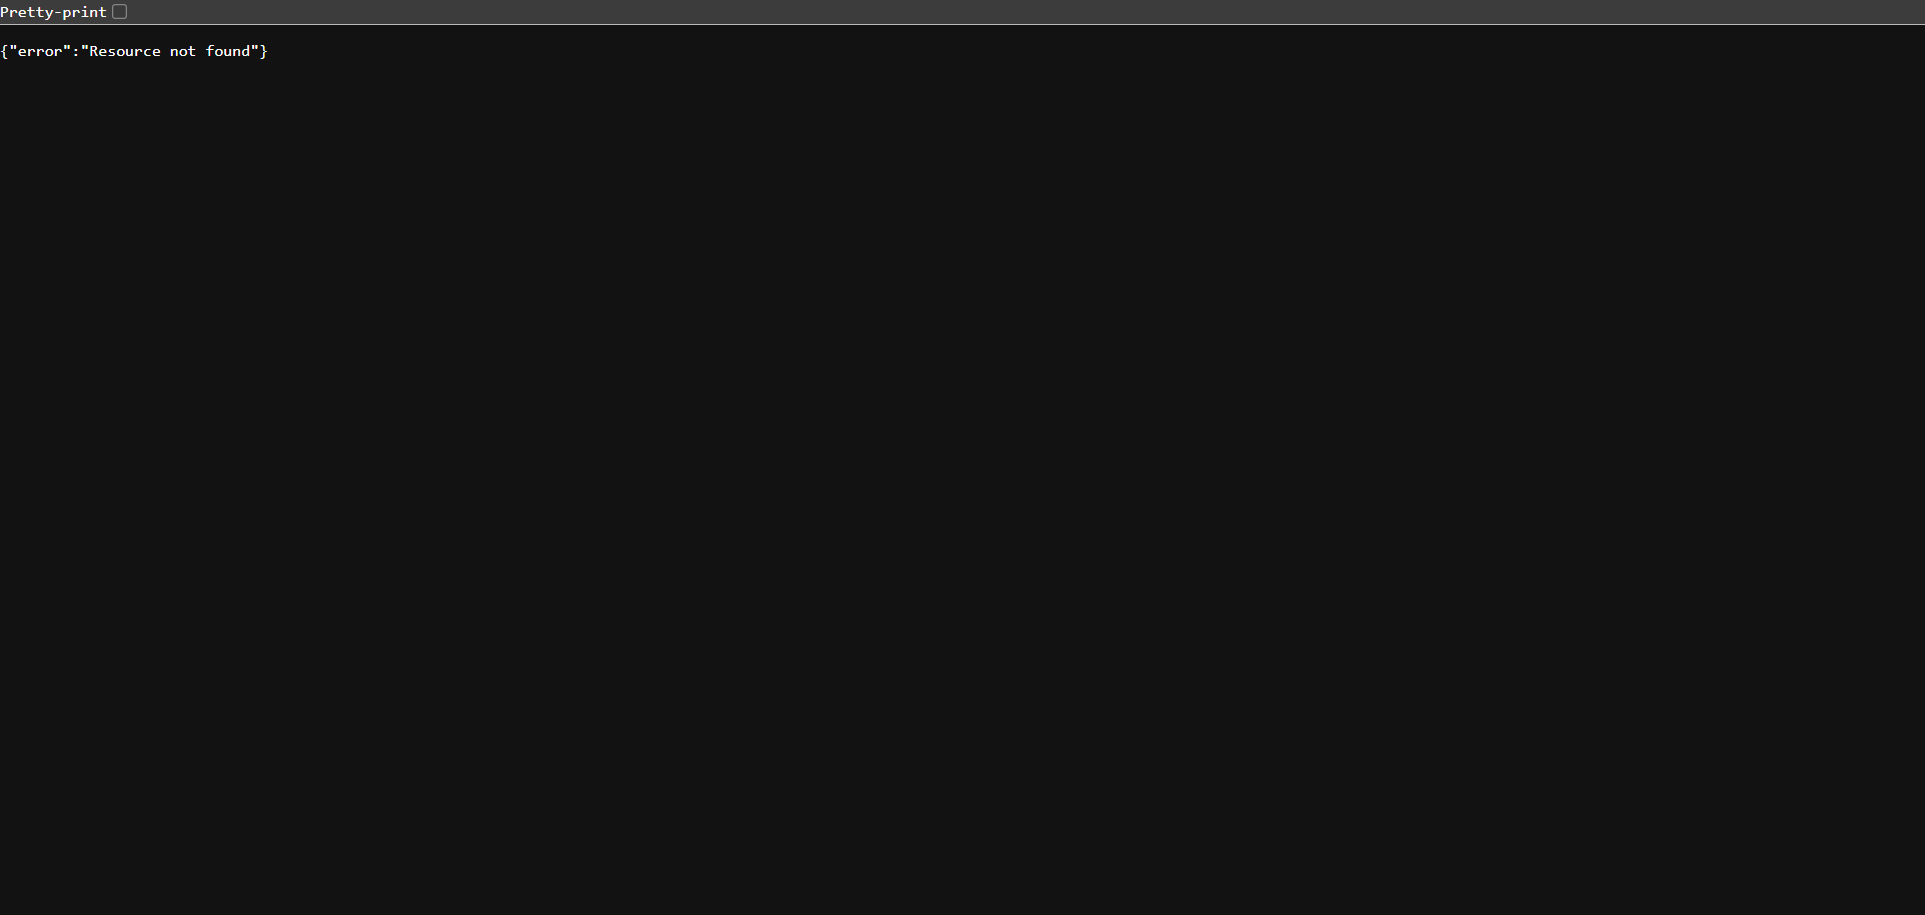
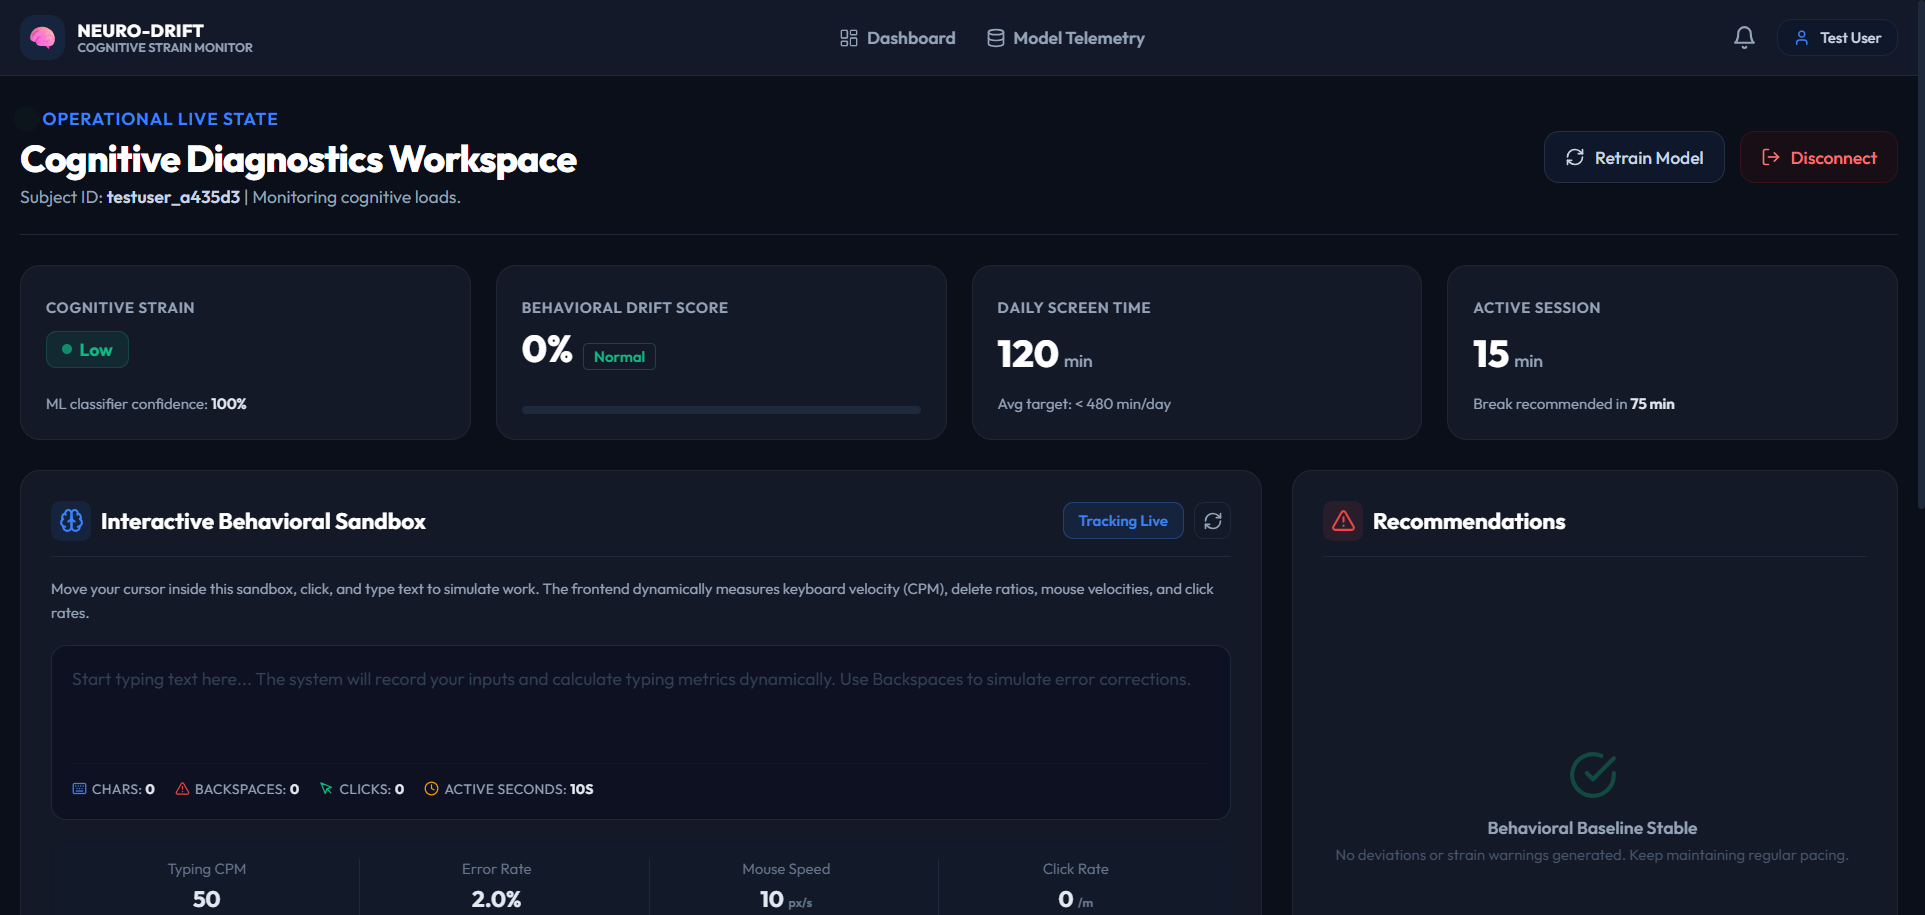
Fix e2e prediction test and ci continue on error

diff --git a/tests/test_prediction.py b/tests/test_prediction.py
@@ -1,16 +1,19 @@
 from selenium.webdriver.support.ui import WebDriverWait
 from selenium.webdriver.support import expected_conditions as EC
+from selenium.webdriver.common.by import By
 import time
 
 def test_transmit_metrics_success(browser, login_helper):
     """Click Transmit Metrics button and verify successful UI update."""
     login_helper()
     
-    transmit_btn = browser.find_element("xpath", "//button[contains(., 'Transmit Metrics')]")
+    transmit_btn = browser.find_element(By.XPATH, "//button[contains(., 'Transmit Metrics')]")
     browser.execute_script("arguments[0].click();", transmit_btn)
     
-    time.sleep(3)
-    success_btn = browser.find_element("xpath", "//button[contains(., 'Ingested Successfully')]")
+    WebDriverWait(browser, 10).until(
+        EC.presence_of_element_located((By.XPATH, "//button[contains(., 'Ingested Successfully')]"))
+    )
+    success_btn = browser.find_element(By.XPATH, "//button[contains(., 'Ingested Successfully')]")
     assert success_btn.is_displayed()
 
 def test_cognitive_strain_prediction(browser, login_helper):
@@ -18,17 +21,18 @@ def test_cognitive_strain_prediction(browser, login_helper):
     login_helper()
     
     # Toggle fatigue
-    label = browser.find_element("xpath", "//span[contains(text(), 'Force Cognitive Fatigue Simulation')]")
+    label = browser.find_element(By.XPATH, "//span[contains(text(), 'Force Cognitive Fatigue Simulation')]")
     browser.execute_script("arguments[0].click();", label)
     
     # Transmit
-    transmit_btn = browser.find_element("xpath", "//button[contains(., 'Transmit Metrics')]")
+    transmit_btn = browser.find_element(By.XPATH, "//button[contains(., 'Transmit Metrics')]")
     browser.execute_script("arguments[0].click();", transmit_btn)
     
-    time.sleep(3) # Wait for backend response and state update
-    
+    WebDriverWait(browser, 10).until(
+        EC.presence_of_element_located((By.XPATH, "//span[contains(text(), 'High')]"))
+    )
     # Check strain is high
-    strain_badge = browser.find_element("xpath", "//span[contains(text(), 'High')]")
+    strain_badge = browser.find_element(By.XPATH, "//span[contains(text(), 'High')]")
     assert strain_badge.is_displayed()
 
 def test_behavioral_drift_score(browser, login_helper):
@@ -36,18 +40,20 @@ def test_behavioral_drift_score(browser, login_helper):
     login_helper()
     
     # Read initial drift score
-    drift_score_elem = browser.find_element("xpath", "//span[contains(text(), '%')]")
+    drift_score_elem = browser.find_element(By.XPATH, "//span[contains(text(), '%')]")
     
     # Toggle fatigue
-    label = browser.find_element("xpath", "//span[contains(text(), 'Force Cognitive Fatigue Simulation')]")
+    label = browser.find_element(By.XPATH, "//span[contains(text(), 'Force Cognitive Fatigue Simulation')]")
     browser.execute_script("arguments[0].click();", label)
     
     # Transmit
-    transmit_btn = browser.find_element("xpath", "//button[contains(., 'Transmit Metrics')]")
+    transmit_btn = browser.find_element(By.XPATH, "//button[contains(., 'Transmit Metrics')]")
     browser.execute_script("arguments[0].click();", transmit_btn)
     
-    time.sleep(3)
+    WebDriverWait(browser, 10).until(
+        EC.presence_of_element_located((By.XPATH, "//span[contains(text(), 'Critical')]"))
+    )
     
     # Drift score should be very high (Critical)
-    critical_badge = browser.find_element("xpath", "//span[contains(text(), 'Critical')]")
+    critical_badge = browser.find_element(By.XPATH, "//span[contains(text(), 'Critical')]")
     assert critical_badge.is_displayed()

diff --git a/fix_clicks.py b/fix_clicks.py
@@ -1,0 +1,17 @@
+import os
+import re
+
+for root, _, files in os.walk('tests'):
+    for file in files:
+        if not file.endswith('.py'): continue
+        path = os.path.join(root, file)
+        with open(path, 'r') as f:
+            content = f.read()
+        
+        content = re.sub(r'(browser\.find_element\([^)]+\))\.click\(\)', r'browser.execute_script("arguments[0].click();", \1)', content)
+        content = re.sub(r'^(\s*)([a-zA-Z0-9_]+(?:\[\d+\])?)\.click\(\)', r'\1browser.execute_script("arguments[0].click();", \2)', content, flags=re.MULTILINE)
+        
+        with open(path, 'w') as f:
+            f.write(content)
+
+print("Done fixing clicks!")